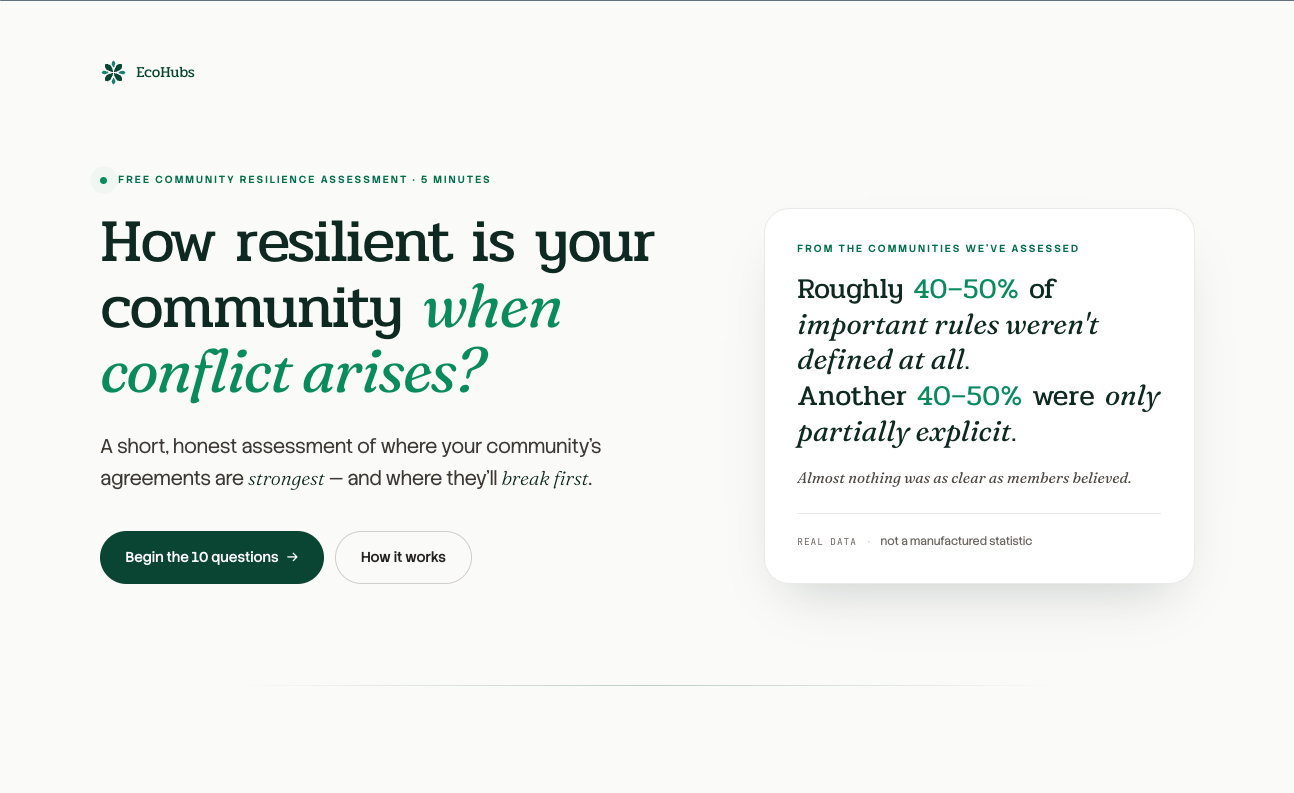
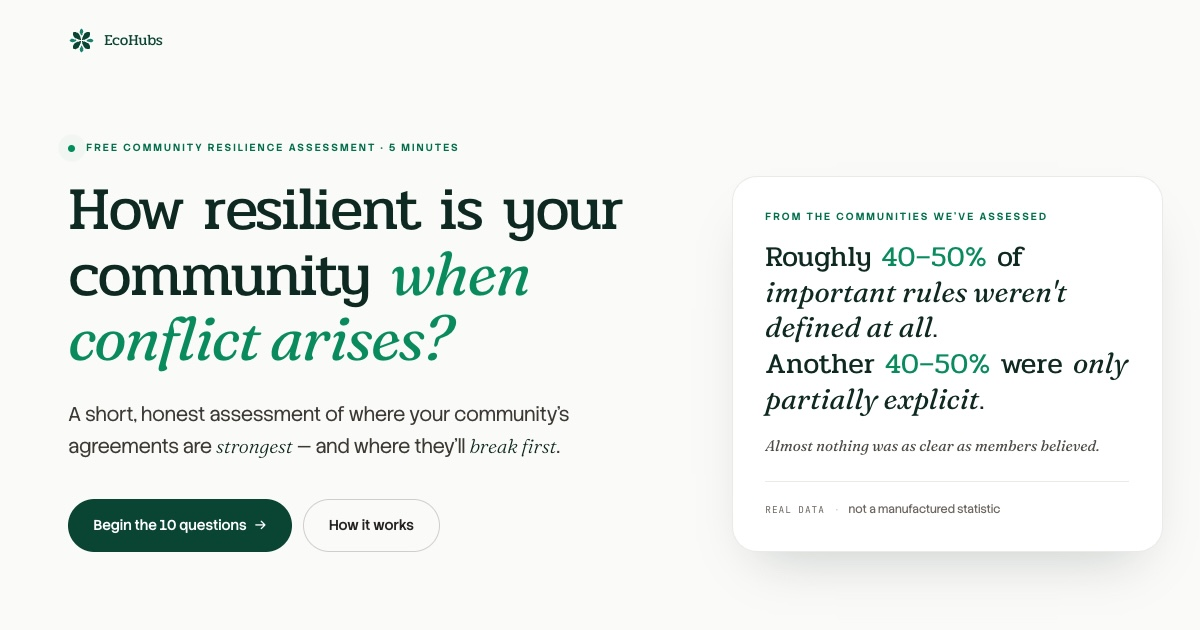
feat: enhance SEO for community resilience assessment with new metadata and structured data

diff --git a/src/routes/(landing)/community-resilience-assessment/+page.svelte b/src/routes/(landing)/community-resilience-assessment/+page.svelte
@@ -6,6 +6,55 @@
 	import { QUESTIONS, OPTIONS, tierFor, type AnswerKey } from './data';
 	import { MAUTIC_RESILIENCE_ASSESSMENT } from '$lib/config/mautic';
 	import { initMauticTracking, getMauticContactId } from '$lib/utils/mautic';
+	import { SEO_CONFIG } from '$lib/config/seo';
+
+	const SEO_PAGE = SEO_CONFIG.pages.communityResilienceAssessment;
+
+	/* ─── Structured data ────────────────────────────────────────── *
+	 * FAQ pairs mirror the three "worries" accordion below; emitting
+	 * FAQPage here (this landing page is a self-contained SEO island)
+	 * makes it eligible for FAQ rich results. The WebPage/Service
+	 * schema describes the free assessment itself.                    */
+	const seoFaq = [
+		{
+			question: 'Our community is small or informal — is this assessment for us?',
+			answer:
+				'If you have more than five people sharing a space, this is for you. Smaller and informal communities often have the most implicit rules — and the most to gain from making them explicit.'
+		},
+		{
+			question: "We've been around for years — are we past this?",
+			answer:
+				'Established communities often discover the deepest gaps. Time conceals what conflict eventually reveals. The longer something has worked informally, the more painful it tends to be when the informal version breaks.'
+		},
+		{
+			question: "We don't want to be judged — what does the report actually do?",
+			answer:
+				"We don't judge. There's no score, no grade, no pass/fail. We support communities — we don't audit them. The report is just a clear map of what's defined and what isn't, so you can decide what to do next."
+		}
+	];
+
+	const assessmentSchema = {
+		'@context': 'https://schema.org',
+		'@type': 'WebPage',
+		name: 'Community Resilience Assessment',
+		url: `${SEO_CONFIG.siteUrl}/community-resilience-assessment`,
+		description:
+			'A free 5-minute self-assessment for intentional communities, measuring how clearly a community’s key agreements are written down, followed by a human-written gap report.',
+		inLanguage: 'en',
+		isPartOf: { '@type': 'WebSite', name: SEO_CONFIG.siteName, url: SEO_CONFIG.siteUrl },
+		about: {
+			'@type': 'Service',
+			name: 'Community Resilience Assessment & Report',
+			serviceType: 'Community governance assessment',
+			provider: {
+				'@type': 'Organization',
+				name: SEO_CONFIG.organization.name,
+				url: SEO_CONFIG.siteUrl
+			},
+			areaServed: 'Worldwide',
+			offers: { '@type': 'Offer', price: '0', priceCurrency: 'USD' }
+		}
+	};
 
 	const MAUTIC_FORM_KEY = 'resilience-assessment';
 	const QUIZ_SUMMARY_FIELD = MAUTIC_RESILIENCE_ASSESSMENT.quizSummaryField;
@@ -203,10 +252,13 @@
 </script>
 
 <SEO
-	title="Community Resilience Assessment — Where will your community break first? | EcoHubs"
-	ogImage="/og-resilience-assessment.jpg"
-	description="A free 5-minute assessment for intentional communities. Ten honest questions about your written agreements — followed by a personalised, human-written report mapping where your community is solid and where it's exposed."
+	title={SEO_PAGE.title}
+	description={SEO_PAGE.description}
+	ogImage={SEO_PAGE.ogImage}
+	ogImageAlt="Community resilience assessment — pie chart of explicit, partial, and missing community agreements"
 	canonical="/community-resilience-assessment"
+	faq={seoFaq}
+	jsonLd={assessmentSchema}
 />
 
 <div class="landing-root">
@@ -337,6 +389,19 @@
 					Four answer options per question. Five minutes. Your responses stay in your browser until
 					you ask for the full report.
 				</p>
+			</div>
+
+			<!-- Crawlable full question list. The interactive card below shows one
+			     question at a time (client-side), so only the first reaches the
+			     prerendered HTML; this sr-only block exposes all ten to crawlers
+			     and screen readers without duplicating them visually. -->
+			<div class="sr-only">
+				<h3>The 10 community resilience assessment questions</h3>
+				<ol>
+					{#each QUESTIONS as q}
+						<li><strong>{q.label}:</strong> {q.prompt}</li>
+					{/each}
+				</ol>
 			</div>
 
 			<div class="q-card soft-shadow overflow-hidden">
@@ -954,49 +1019,10 @@
 				</div>
 			{/if}
 
-			<!-- Footer mark — non-clickable brand only -->
+			<!-- Footer mark — a single discreet link home, giving this otherwise
+			     link-free landing page a place in the site's crawl graph. -->
 			<div class="mt-20 flex flex-col items-center gap-3 border-t border-white/10 pt-10 opacity-70">
-				<svg
-					viewBox="0 0 1920 1920"
-					class="h-8 w-8 brightness-[1.6]"
-					xmlns="http://www.w3.org/2000/svg"
-					aria-label="EcoHubs"
-				>
-					<g>
-						<path
-							d="M375.183,374.836c31.204,-31.205 218.513,-64.394 371.175,88.268c91.285,91.286 206.245,429.736 176.537,459.444c-26.768,26.768 -368.158,-85.252 -459.443,-176.538c-164.72,-164.72 -123.097,-336.346 -88.269,-371.174Z"
-							fill="#064e3b"
-						/>
-						<path
-							d="M1544.82,1549.04c-31.204,31.204 -218.513,64.393 -371.175,-88.269c-91.285,-91.286 -206.245,-429.736 -176.537,-459.444c26.768,-26.768 368.158,85.252 459.443,176.538c164.72,164.72 123.097,336.346 88.269,371.175Z"
-							fill="#064e3b"
-						/>
-						<path
-							d="M1547.1,377.119c31.204,31.204 64.393,218.512 -88.269,371.174c-91.285,91.286 -429.736,206.245 -459.443,176.538c-26.769,-26.768 85.252,-368.158 176.537,-459.444c164.72,-164.72 336.347,-123.097 371.175,-88.268Z"
-							fill="#064e3b"
-						/>
-						<path
-							d="M372.9,1546.75c-31.204,-31.205 -64.393,-218.513 88.269,-371.175c91.285,-91.285 429.736,-206.245 459.443,-176.538c26.769,26.769 -85.252,368.158 -176.537,459.444c-164.72,164.72 -336.347,123.097 -371.175,88.269Z"
-							fill="#064e3b"
-						/>
-					</g>
-					<path
-						d="M958.921,115.51c28.189,0 127.783,69.613 127.783,207.521c0,82.464 -100.947,287.26 -127.783,287.26c-24.181,0 -127.783,-204.796 -127.783,-287.26c0,-148.801 96.321,-207.521 127.783,-207.521Z"
-						fill="#1a8e7b"
-					/>
-					<path
-						d="M967.41,1804.49c-28.189,0 -127.783,-69.613 -127.783,-207.521c0,-82.464 100.946,-287.26 127.783,-287.26c24.181,0 127.783,204.796 127.783,287.26c0,148.801 -96.321,207.521 -127.783,207.521Z"
-						fill="#1a8e7b"
-					/>
-					<path
-						d="M1808.18,964.093c0,28.189 -69.612,127.783 -207.521,127.783c-82.463,0 -287.259,-100.946 -287.259,-127.783c0,-24.181 204.796,-127.782 287.259,-127.782c148.801,0 207.521,96.32 207.521,127.782Z"
-						fill="#1a8e7b"
-					/>
-					<path
-						d="M116.131,957.721c0,-28.189 69.612,-127.783 207.521,-127.783c82.463,0 287.259,100.947 287.259,127.783c0,24.181 -204.796,127.783 -287.259,127.783c-148.801,0 -207.521,-96.321 -207.521,-127.783Z"
-						fill="#1a8e7b"
-					/>
-				</svg>
+				<img src={Logo} width="60" alt="EcoHubs" />
 				<div class="font-serif text-[15px] text-stone-300/80">
 					EcoHubs · <em class="font-story italic">a quiet project, in the open</em>
 				</div>

diff --git a/src/lib/components/SEO.svelte b/src/lib/components/SEO.svelte
@@ -33,6 +33,9 @@
 		description?: string;
 		canonical?: string;
 		ogImage?: string;
+		ogImageWidth?: number;
+		ogImageHeight?: number;
+		ogImageAlt?: string;
 		twitterCard?: 'summary' | 'summary_large_image' | 'app' | 'player';
 		type?: 'website' | 'article';
 		jsonLd?: Record<string, unknown> | Record<string, unknown>[];
@@ -49,6 +52,9 @@
 		description = SEO_CONFIG.defaultDescription,
 		canonical,
 		ogImage = SEO_CONFIG.defaultOgImage,
+		ogImageWidth = 1200,
+		ogImageHeight = 630,
+		ogImageAlt,
 		twitterCard = 'summary_large_image',
 		type = 'website',
 		jsonLd,
@@ -231,6 +237,9 @@
 	<meta property="og:title" content={title} />
 	<meta property="og:description" content={description} />
 	<meta property="og:image" content={ogImageUrl} />
+	<meta property="og:image:width" content={String(ogImageWidth)} />
+	<meta property="og:image:height" content={String(ogImageHeight)} />
+	<meta property="og:image:alt" content={ogImageAlt ?? title} />
 	<meta property="og:site_name" content={SEO_CONFIG.siteName} />
 	<meta property="og:locale" content={SEO_CONFIG.locale} />
 
@@ -257,6 +266,7 @@
 	<meta name="twitter:title" content={title} />
 	<meta name="twitter:description" content={description} />
 	<meta name="twitter:image" content={ogImageUrl} />
+	<meta name="twitter:image:alt" content={ogImageAlt ?? title} />
 	<meta name="twitter:site" content={SEO_CONFIG.twitterHandle} />
 	<meta name="twitter:creator" content={SEO_CONFIG.twitterHandle} />
 

diff --git a/src/routes/(web)/blueprint/+page.svelte b/src/routes/(web)/blueprint/+page.svelte
@@ -1115,12 +1115,18 @@
 			{/each}
 		</div>
 
-		<div class="mt-8 text-center">
+		<div class="mt-8 flex flex-col items-center gap-4 text-center sm:flex-row sm:justify-center sm:gap-8">
 			<a
 				href="/faq#blueprint"
 				class="inline-flex items-center gap-2 text-sm text-ecohubs-dark font-medium border-b border-ecohubs-dark/40 hover:border-ecohubs-dark pb-1"
 			>
 				See all questions across the project →
+			</a>
+			<a
+				href="/community-resilience-assessment"
+				class="inline-flex items-center gap-2 text-sm text-ecohubs-dark font-medium border-b border-ecohubs-dark/40 hover:border-ecohubs-dark pb-1"
+			>
+				See how your community measures up — free resilience assessment →
 			</a>
 		</div>
 	</div>

diff --git a/src/lib/config/seo.ts b/src/lib/config/seo.ts
@@ -99,6 +99,12 @@ export const SEO_CONFIG = {
 			description:
 				'The questions we hear most about EcoHubs — the project, the Vision, the Blueprint (RCOS), and Membership — answered plainly, in one place.',
 			ogImage: '/og-faq.jpg'
+		},
+		communityResilienceAssessment: {
+			title: 'Community Resilience Assessment — Free 5-Min Quiz | EcoHubs',
+			description:
+				'A free 5-minute community resilience assessment for intentional communities. Ten honest questions, then a human-written report mapping your gaps.',
+			ogImage: '/og-resilience-assessment.jpg'
 		}
 	}
 } as const;

diff --git a/src/routes/(landing)/community-resilience-assessment/+page.ts b/src/routes/(landing)/community-resilience-assessment/+page.ts
@@ -1,0 +1,5 @@
+// Prerender to static HTML for fast, CDN-cacheable delivery — consistent with
+// the other static pages. The quiz is fully client-side (Mautic tracking and
+// the /api/mautic POST run only after hydration), so there's nothing dynamic
+// to render server-side.
+export const prerender = true;

diff --git a/src/routes/sitemap.xml/+server.ts b/src/routes/sitemap.xml/+server.ts
@@ -23,7 +23,7 @@ const routes: SitemapRoute[] = [
 	{ path: '/terms', priority: '0.3', changefreq: 'yearly' },
 
 	// Landing pages
-	{ path: '/community-resilience-assessment', priority: '0.7', changefreq: 'monthly' },
+	{ path: '/community-resilience-assessment', priority: '0.8', changefreq: 'monthly' },
 ];
 
 export const prerender = true;